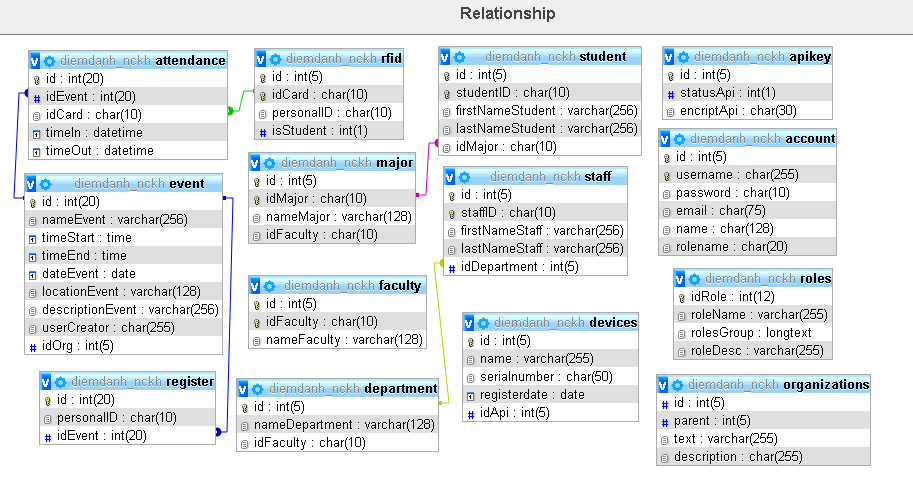
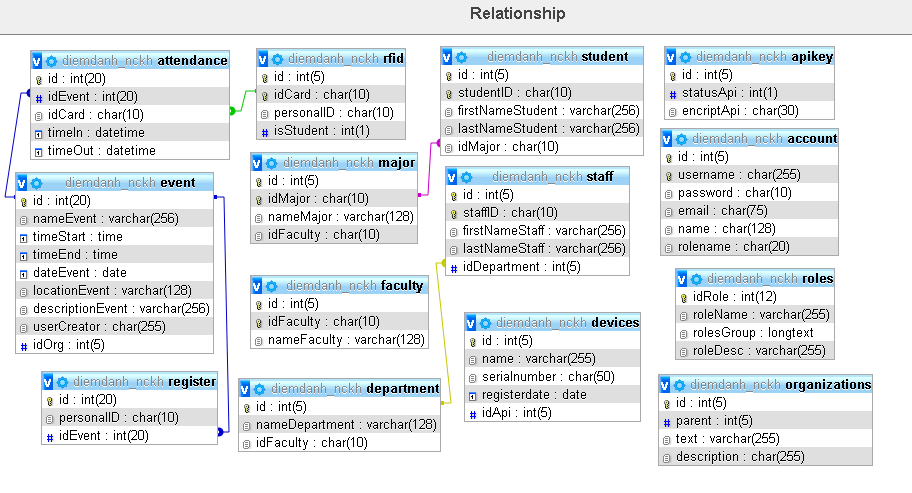
Update database and org feature 201712240341

Changed region(s): [[0.0, 0.0, 1.0, 0.9509]]

diff --git a/application/controllers/Organizations.php b/application/controllers/Organizations.php
@@ -14,7 +14,7 @@ class Organizations extends CI_Controller {
 		{
 				$this->_data['subview'] = 'dontlogin/org_view';
 				$this->_data['titlePage'] = 'Chi tiết tổ chức';
-				$this->_data['content'] = $this->Morg->getList();
+				// $this->_data['content'] = $this->Morg->getList();
 				$this->load->view('main.php', $this->_data);
 		}
 
@@ -22,18 +22,62 @@ class Organizations extends CI_Controller {
 		{
 				$getOrg = $this->Morg->getOrgById($id);
 	      if ($getOrg['parent'] == $getOrg['id']) {
-					$parent['name'] = '<i>Không có cấp cao hơn tại cơ sở</i>';
+					$parent['text'] = '<i>Không có cấp cao hơn tại cơ sở</i>';
 	        $parent['id'] = $getOrg['id'];
 	      } else $parent = $this->Morg->getOrgById($getOrg['parent']);
 
 				$this->_data['subview'] = 'dontlogin/org_detail_view';
 				$this->_data['titlePage'] = 'Chi tiết tổ chức';
 
-	      $this->_data['name'] = $getOrg['name'];
-				$this->_data['parent_name'] = $parent['name'];
+	      $this->_data['name'] = $getOrg['text'];
+				$this->_data['parent_name'] = $parent['text'];
 				$this->_data['parent_id'] = $parent['id'];
 				$this->_data['description'] = $getOrg['description'];
 				$this->load->view('main.php', $this->_data);
+		}
+
+		public function res()
+		{
+				header('Content-Type: application/json;charset=utf-8');
+				$content = $this->Morg->getList();
+				foreach ($content as $key => $row) {
+						if ($row['parent'] == 0) {
+								$parent = '#';
+								$open = true;
+						} else if ($row['parent'] == $row['id']) {
+								$parent = '#';
+								$open = true;
+						} else {
+								$parent = $row['parent'];
+								$open = false;
+						}
+						$data[] = array (
+							'id' => $row['id'],
+							'parent' => $parent,
+							'text' => $row['text'],
+							'icon' => false,
+							'state' => array (
+								'opened' => $open
+							),
+							'a_attr' => array (
+								'href' => base_url('organizations/org/'.$row['id'])
+							)
+					);
+				}
+				echo json_encode($data);
+		}
+
+		public function frm()
+		{
+				$this->_data['subview'] = 'dontlogin/frm';
+				$this->_data['titlePage'] = 'Form';
+				// $this->_data['content'] = $this->Morg->getList();
+				$this->load->view('main.php', $this->_data);
+		}
+
+		public function req()
+		{
+				print_r($_POST);
 		}
 
     public function test()

diff --git a/application/views/dontlogin/org_view.php b/application/views/dontlogin/org_view.php
@@ -1,35 +1,25 @@
 <div class="container">
-  <div id="tree_list">
-    <!-- <ul> -->
-      <?php
-      foreach ($content as $key => $row) {
-        $parent = $this->Morg->getParentById($row['parent']);
-        // if ($parent['id'] == $row['parent']) {
-        //   echo '<li>
-        //   <a href="#">'.$row['text'].'</a>
-        //   </li>';
-        // } else if ($parent['id'] != $row['parent']) {
-        //   echo '<li>
-        //   <a href="#">'.$row['text'].'</a>
-        //   </li>';
-        // }
-        print_r($parent);
-      }
-      ?>
-    <!-- </ul> -->
-    <!-- <ul>
-      <li>Root node
-        <ul>
-          <li>Child node 1</li>
-          <li>Child node 2</li>
-        </ul>
-      </li>
-    </ul> -->
+  <div class="section-header-wrap section-header-default">
+      <div class="section-header">Các tổ chức</div>
   </div>
+  <div id="tree_list"></div>
 
   <!-- Using TreeJS -->
-  <script>
-  $('#tree_list').jstree();
+  <script type="text/javascript">
+  $(document).ready(function(){
+    //fill data to tree  with AJAX call
+    $('#tree_list').jstree({
+        'core' : {
+            'data' : {
+                "url" : "<?php echo base_url('organizations/res/'); ?>"
+            }
+        }
+    }).bind("select_node.jstree", function (e, data) {
+       var href = data.node.a_attr.href;
+       if(href == '#')
+       return '';
+       document.location.href = href;
+    });
+  });
   </script>
-  <?php // echo $data; ?>
 </div>

diff --git a/application/views/dontlogin/frm.php b/application/views/dontlogin/frm.php
@@ -1,0 +1,32 @@
+<!-- <div class="container">
+  <form class="form-horizontal" action="<?php echo base_url('organizations/req'); ?>" method="post">
+      <input type="text" name="key" value="1234" placeholder="Nhập tên tổ chức" class="form-control">
+      <input type="hidden" name="data" value="<?php echo file_get_contents(base_url('organizations/res/4')); ?>" placeholder="Nhập tên tổ chức quản lý" class="form-control">
+      <button type="submit" class="btn btn-primary">Gửi</button>
+  </form>
+</div> -->
+<?php
+$url = base_url('organizations/req');
+$content = file_get_contents(base_url('organizations/res/4'));
+
+$curl = curl_init($url);
+curl_setopt($curl, CURLOPT_HEADER, false);
+curl_setopt($curl, CURLOPT_RETURNTRANSFER, true);
+curl_setopt($curl, CURLOPT_HTTPHEADER,
+        array("Content-type: application/json"));
+curl_setopt($curl, CURLOPT_POST, true);
+curl_setopt($curl, CURLOPT_POSTFIELDS, $content);
+
+$json_response = curl_exec($curl);
+
+$status = curl_getinfo($curl, CURLINFO_HTTP_CODE);
+
+if ( $status != 201 ) {
+    die("Error: call to URL $url failed with status $status, response $json_response, curl_error " . curl_error($curl) . ", curl_errno " . curl_errno($curl));
+}
+
+
+curl_close($curl);
+
+$response = json_decode($json_response, true);
+?>
